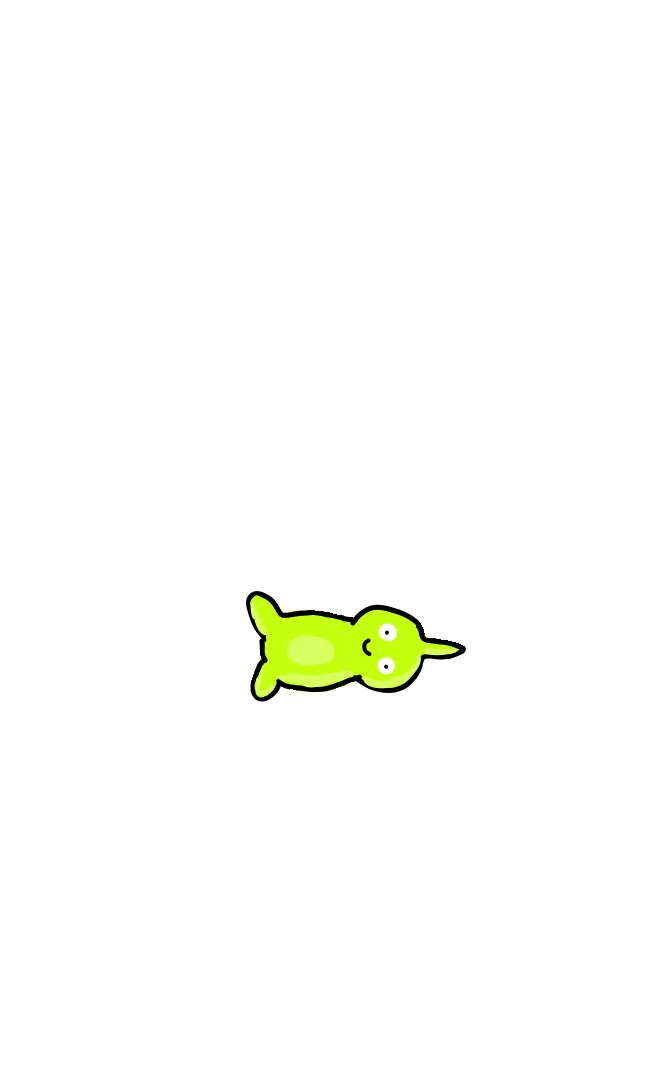
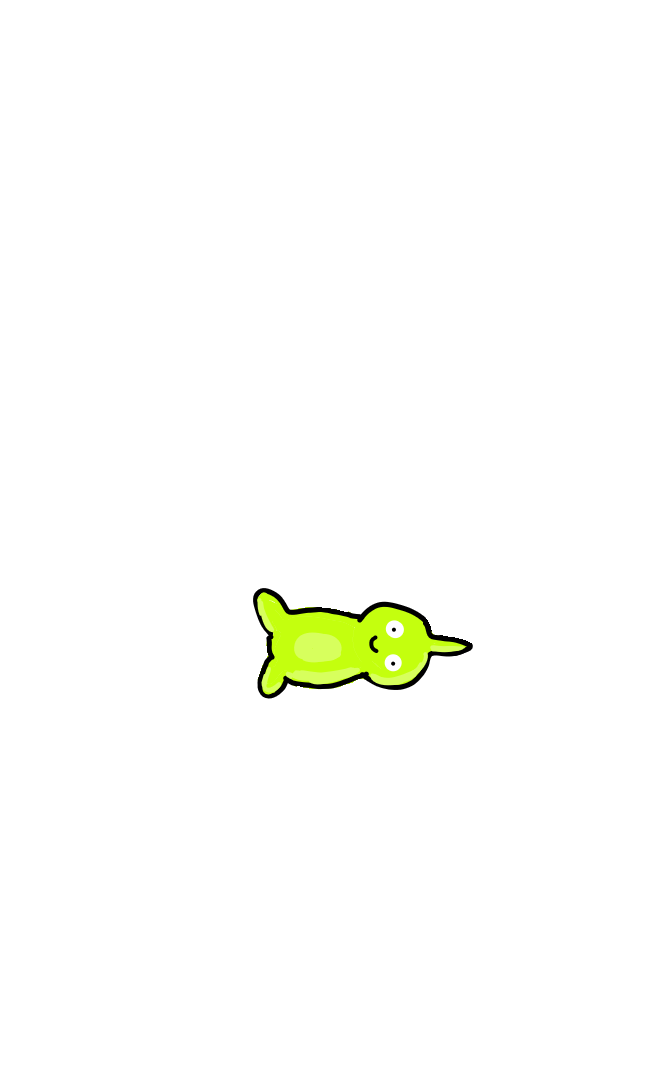
Added additional animation.

Changed region(s): [[0.3604, 0.5199, 0.7207, 0.6728]]

diff --git a/public/PetDisplay.js b/public/PetDisplay.js
@@ -1,7 +1,10 @@
-//  Displays different pet and effect images depending on pet activity
+//  Displays different pet/effect images and adds/removes animation classes depending on pet activity
 
 // HTML Class Names
-const ACTIVE = "active", UP_DOWN = "animateUpDown", LEFT_RIGHT = "animateLeftRight", CLOCKWISE = "animateClockwise";
+const ACTIVE = "active";
+const UP_DOWN = "animateUpDown", LEFT_RIGHT = "animateLeftRight", CLOCKWISE = "animateClockwise", 
+        SQUEEZE = "animateSqueeze", FETCH = "animateFetch", BACK_FORTH = "animateBackForth";
+const ANIMATION_CLASSES = [UP_DOWN, LEFT_RIGHT, CLOCKWISE, SQUEEZE, FETCH, BACK_FORTH];
 // <img>
 const activeImg = document.getElementById("active-img");
 const petImg = document.getElementById("pet-img");
@@ -28,9 +31,9 @@ export function clearActiveEffect() {
     for (let p of needsPArray) {
         p.classList.remove(ACTIVE);
     }
-    activeImg.classList.remove(UP_DOWN);
-    activeImg.classList.remove(LEFT_RIGHT);
-    activeImg.classList.remove(CLOCKWISE);
+    for (let AC of ANIMATION_CLASSES) {
+        activeImg.classList.remove(AC);
+    }
 }
 
 // Set pet-img src based on status to match current activity.
@@ -108,17 +111,23 @@ export const socializing = (index) => {
 };
 export const playing = (index) => {
     let url = '/images/effects/toys/';
+    let animationClass;
     switch (index) {
         case 0:
             url += 'Chew.png';
+            animationClass = SQUEEZE;
             break;
         case 1:
             url += 'Rock.png';
+            animationClass = FETCH;
             break;
         case 2:
-        default: url += 'Tug.png';
+        default: 
+            url += 'Tug.png';
+            animationClass = BACK_FORTH;
     }
     setDisplay('playing', funP, url);
+    activeImg.classList.add(animationClass);
 };
 export function deceased() {
     const effects = document.getElementsByClassName("effects");

diff --git a/public/css/style.css b/public/css/style.css
@@ -137,9 +137,24 @@ button, select {
     animation-iteration-count: 5;
 }
 
+.animateSqueeze {
+    animation-name: squeeze;
+    animation-duration: 1s;
+    animation-timing-function: linear;
+    animation-iteration-count: 5;
+}
+
 .animateFetch {
     animation-name: fetch;
     animation-duration: 1.5s;
     animation-timing-function: linear;
-    animation-iteration-count: 4;
+    animation-iteration-count: 5;
+}
+
+.animateBackForth {
+    animation: left-right;
+    animation-duration: 0.5s;
+    animation-timing-function: cubic-bezier(0.81, 0.2, 0.3, 0.25);
+    animation-direction: alternate;
+    animation-iteration-count: infinite;
 }

diff --git a/public/css/animations.css b/public/css/animations.css
@@ -56,3 +56,15 @@
         transform: translate(25%, -5%) scale(100%, 100%);
     }
 }
+
+@keyframes squeeze {
+    0% {
+        transform: translate(25%, -5%) scale(100%, 100%);
+    }
+    50% {
+        transform: translate(25%, -5%) scale(110%, 95%);
+    }
+    100% {
+        transform: translate(25%, -5%) scale(100%, 100%);
+    }
+}
